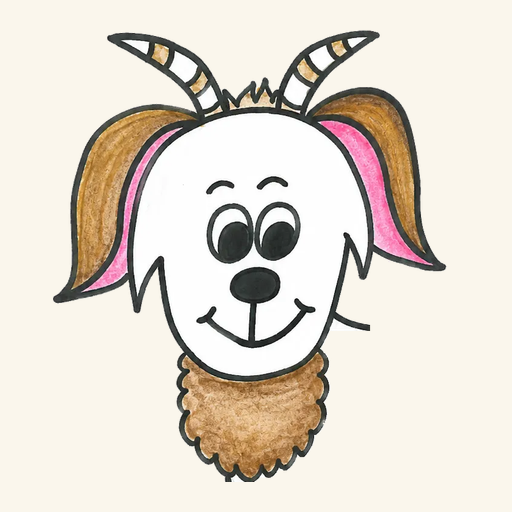
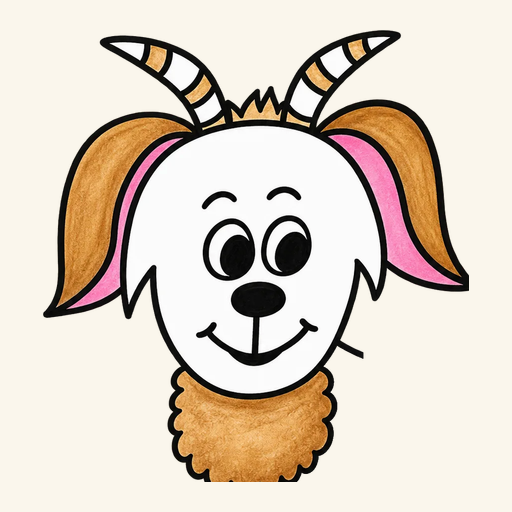
Kim's notes: Gabby is not Gabby, and Gritty wears his backpack
Gabby's portrait was Gritty winking. Kim spotted it. The file moves to
reference/ under a name that says what it is, and her card goes back to
the "portrait coming soon" circle until her own drawing arrives — which
is the rule the schema already states.

Her other note is measurable: the ears and beard differ between the art
she sent first and the art she sent last. Averaged over the ear and the
beard, ignoring ink and paper:

  gritty-hero / boil (older)   ear #c09163   beard #c1986a
  the four expressions (newer) ear #d89351   beard #d99a4e

So the logo, the favicon, the Meet Gritty portrait and the hero's
standing pose were all still on the older colouring. The logo and favicon
are re-cut from the newer art, and Meet Gritty and Gritty's character
portrait now use gritty-standing.webp, taken from it too. The old
gritty-hero files are retired.

Cutting a head out of a full-body drawing kept leaving a white slab
behind: erasing the chest outline leaves its fill, and every guessed edge
either kept the slab or clipped the beard. Now it floods inward from the
outside over everything that is not ink — Kim's outline is closed, so the
flood strips the chest and stops dead at the beard with no guessing.

And the backpack, which Kim wants him wearing in the meadow. Her drawing
had the sky and grass painted in, so the same flood — keyed to those two
flat colours — lifts him off it. Two consequences, both handled in the
[…]

Changed region(s): [[0.0625, 0.0312, 0.9375, 0.9688]]

diff --git a/site/src/content/characters/gritty.md b/site/src/content/characters/gritty.md
@@ -1,7 +1,7 @@
 ---
 name: Gritty the Goat
 order: 1
-portrait: /images/characters/gritty-hero.webp
+portrait: /images/characters/gritty-standing.webp
 role: The little goat with big grit
 ---
 "Hi, friend! I'm Gritty. I don't always get things right the first time.

diff --git a/site/src/content/characters/gabby.md b/site/src/content/characters/gabby.md
@@ -1,7 +1,6 @@
 ---
 name: Gabby the Goat
 order: 3
-portrait: /images/characters/gabby.webp
 role: The friendship expert
 ---
 "Hi! I'm Gabby! Friends are the best — and being a good friend takes
